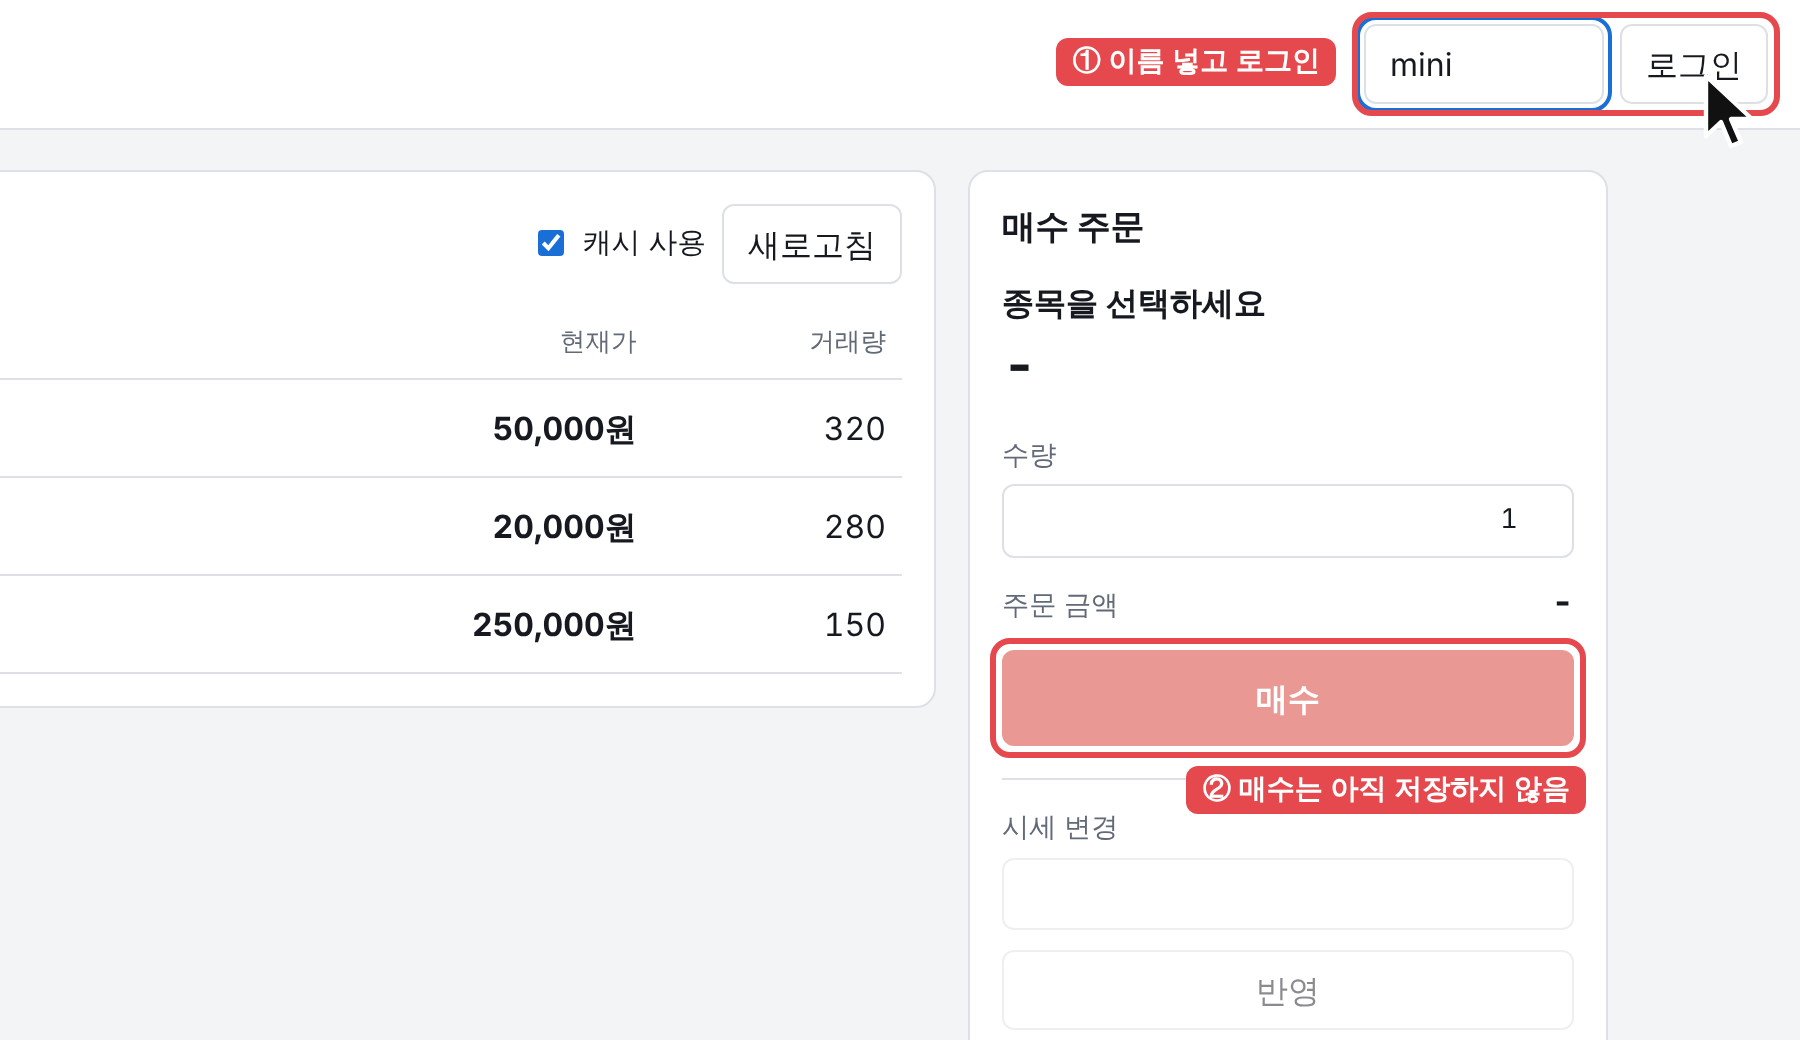
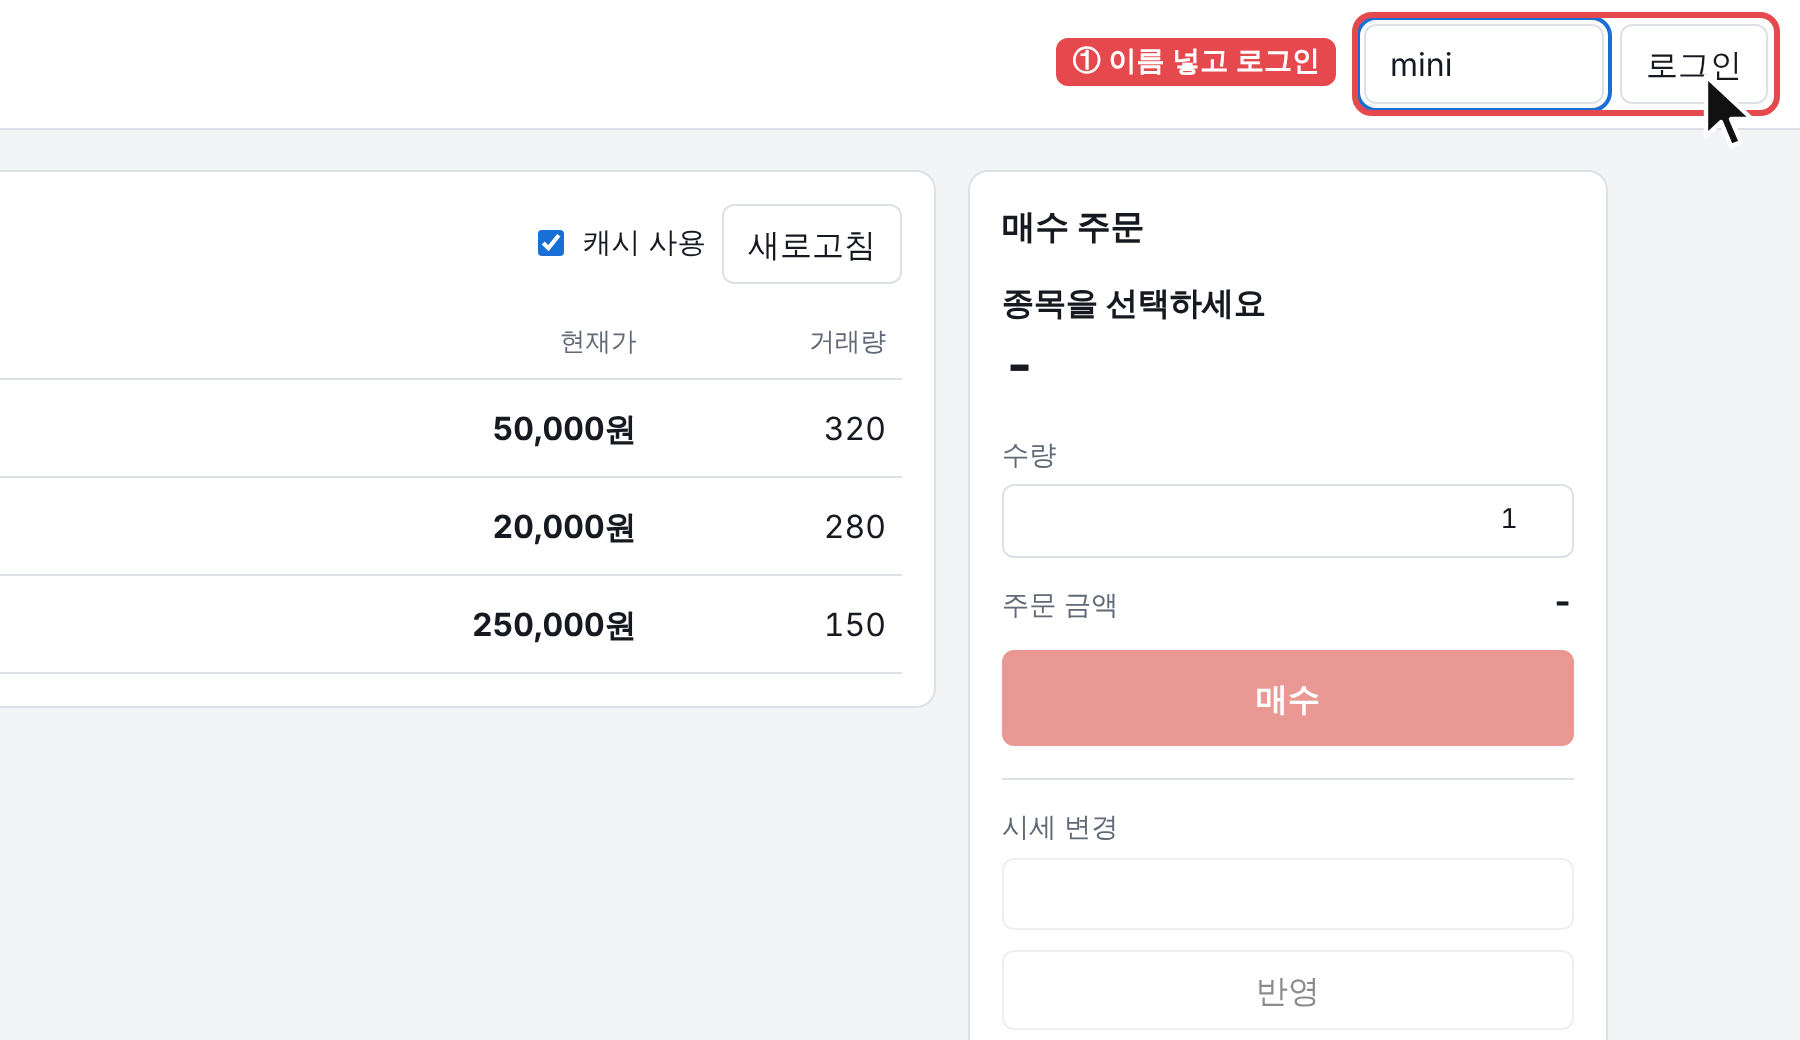
README: 매수 설명을 미니 DBMS를 붙인 뒤의 동작으로
Claude-Session: https://claude.ai/code/session_01UWKnZGWGCpsczHd2oebr1N

Changed region(s): [[0.5289, 0.6154, 0.9022, 0.8]]

diff --git a/README.md b/README.md
@@ -44,9 +44,9 @@ https://mini-stock-tu7t.onrender.com
 
 종목 이름을 누르면 오른쪽 **매수 주문**에 그 종목이 선택됩니다. **시세 변경**에 새 가격을 넣고 **반영**을 누르면 DB의 가격을 바꾼 뒤 캐시에서 그 데이터를 지웁니다. 그래서 바로 다음 조회는 DB에서 새 가격을 읽어 오고, 그 뒤로는 다시 캐시에서 새 가격을 받아 옵니다. **캐시 비우기**는 캐시를 직접 비우고, **조회 횟수 초기화**는 DB 조회 횟수를 0으로 되돌립니다.
 
-![이름을 넣고 로그인하는 모습과 아직 저장하지 않는 매수 버튼](docs/images/stock-login.png)
+![이름을 넣고 로그인하는 모습](docs/images/stock-login.png)
 
-오른쪽 위에서 이름을 넣고 **로그인**하면 로그인 정보(세션)가 mini-redis에 30분 동안 저장됩니다. 새로고침해도 로그인이 유지되는 것은 서버가 mini-redis에서 세션을 찾기 때문입니다. **매수** 버튼은 아직 주문을 저장하지 않습니다. 주문을 저장할 DB(미니 DBMS)를 붙인 뒤에 동작합니다.
+오른쪽 위에서 이름을 넣고 **로그인**하면 로그인 정보(세션)가 mini-redis에 30분 동안 저장됩니다. 새로고침해도 로그인이 유지되는 것은 서버가 mini-redis에서 세션을 찾기 때문입니다. 로그인한 상태에서 종목을 고르고 **수량**을 넣으면 **주문 금액**이 계산되고, **매수**를 누르면 주문이 미니 DBMS에 저장됩니다. 저장된 주문은 체결 내역에, 산 종목과 남은 잔고는 보유 종목과 잔고에 나타납니다.
 
 ## 3. 직접 실행
 
